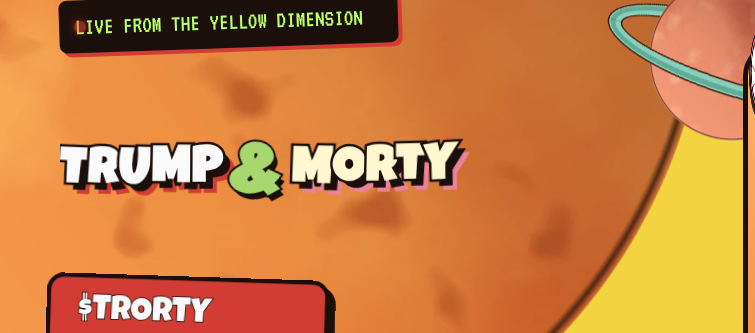
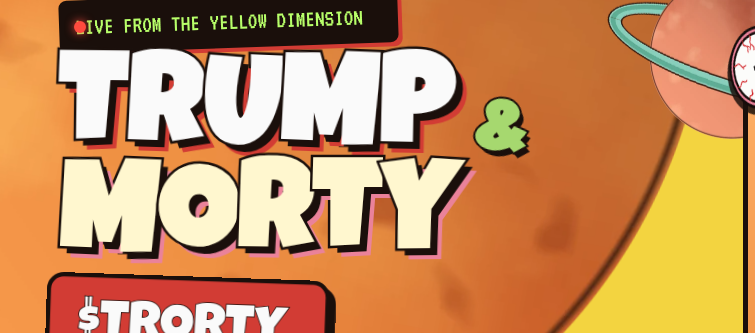
A captured part draws at the size and leading it was measured at; a hand-built one is still held to the Font control's range
applyFont takes { captured } (the node has from.selector, as applyCaptured
reads it): a captured size is held only to what a page could mean
(0.1..20 × base, leading 0.5..3), a hand-built one to 0.6..2 and 1..2 as
before (sink fidelity #7). trumpmorty.fun's headline: 51.2px -> 123.84px
at 0.86, in its measured 635x213.

At that size a folded title broke inside a word (its letters are
inline-blocks) and its tops were clipped by the box: a word's letters are
now held together and a box of letter runs does not clip, as the page's h1
did not. tests/captured-size.mjs: 13/13 (red on the rebased d72a4b0 for
the size and leading; the wrap check was added with its fix).

Claude-Session: https://claude.ai/code/session_015EXira6mC9FLR8gzJND3UV

diff --git a/src/features/studio/blocks.tsx b/src/features/studio/blocks.tsx
@@ -17,7 +17,7 @@ import { frameDoc, hasBody } from "./snippet";
 import { paintRoles, roleVars } from "./bodyPaint";
 import type { StudioNode } from "./store";
 import { usePicture, type Picture } from "./pictures";
-import { isSpans, plain, spansOf } from "./parts/spans";
+import { hasLetters, isSpans, plain, spansOf } from "./parts/spans";
 
 export { items, themeFrom, type Theme } from "./parts/theme";
 
@@ -104,7 +104,7 @@ export function Block({ node, t: siteTheme, mode = "board", size, onNavigate, em
   // nothing at all — the edge is the box wrapper's below — it only carries
   // the fact, so a part that draws its own edge can stand aside for his.
   // See `NodeSaid` in `parts/theme.ts`.
-  const painted = applyCaptured(applyEdge(applyPad(applyText(applyFont(node.colour && palette ? overrideTheme(siteTheme, node.colour, palette) : siteTheme, node.font), wordsSet(node)), node.pad), node.edge), { from: node.from, h: size?.h ?? node.h });
+  const painted = applyCaptured(applyEdge(applyPad(applyText(applyFont(node.colour && palette ? overrideTheme(siteTheme, node.colour, palette) : siteTheme, node.font, { captured: !!node.from?.selector?.trim() }), wordsSet(node)), node.pad), node.edge), { from: node.from, h: size?.h ?? node.h });
   // …and wear one texture layer of its own, or none, whatever the site does.
   const worn = node.texture && node.texture !== "none" ? layers?.find((l) => l.id === node.texture) : undefined;
   const dressed = React.useMemo(() => {
@@ -262,7 +262,7 @@ export function Block({ node, t: siteTheme, mode = "board", size, onNavigate, em
       // inside a parent whose own height is its content is a cycle, and the
       // page never settles — `plain-box` could not even take a screenshot.
       // See `parts/primitives.tsx`.
-      <div data-part-box="" className={hasMotion(node) ? motionClass(node.id) ?? undefined : undefined} style={{ width: "100%", height: "auto", flex: "1 0 auto", boxSizing: "border-box", overflow: "hidden", ...(ground ? { background: ground } : null), ...boxStyle(node, t, palette) }}>
+      <div data-part-box="" className={hasMotion(node) ? motionClass(node.id) ?? undefined : undefined} style={{ width: "100%", height: "auto", flex: "1 0 auto", boxSizing: "border-box", overflow: hasLetters(node.content) ? "visible" : "hidden", ...(ground ? { background: ground } : null), ...boxStyle(node, t, palette) }}>
         {drawn}
       </div>
     ) : drawn}

diff --git a/src/features/studio/parts/theme.ts b/src/features/studio/parts/theme.ts
@@ -136,8 +136,18 @@ export interface NodeFont {
   leading?: number;
 }
 
-export function applyFont(t: Theme, font: NodeFont | null | undefined): Theme {
+/**
+ * The size and leading a node names are held to the Font control's range
+ * (0.6..2 × the base, 1..2) when a person set them here. A CAPTURED part's
+ * were read off its page (`captured`: it has `from.selector`, as
+ * `applyCaptured` reads it), so they are drawn as measured: trumpmorty.fun's
+ * headline is 4.84 × the base at a leading of 0.86, and held to the range it
+ * drew at 51px in a box measured for 124 (sink fidelity #7). Only a value no
+ * page could mean is refused (tests/captured-size.mjs).
+ */
+export function applyFont(t: Theme, font: NodeFont | null | undefined, opts: { captured?: boolean } = {}): Theme {
   if (!font) return t;
+  const [sizeMin, sizeMax, leadMin, leadMax] = opts.captured ? [0.1, 20, 0.5, 3] : [0.6, 2, 1, 2];
   const next: Theme = { ...t };
   const stack = font.family ? FAMILY[font.family] : undefined;
   const face = typeof font.face === "string" ? font.face.trim().replace(/['"]/g, "") : "";
@@ -145,10 +155,10 @@ export function applyFont(t: Theme, font: NodeFont | null | undefined): Theme {
     next.headingFamily = [face ? `'${face}'` : null, stack ?? t.headingFamily].filter(Boolean).join(", ");
     next.bodyFamily = [face ? `'${face}'` : null, stack ?? t.bodyFamily].filter(Boolean).join(", ");
   }
-  if (typeof font.size === "number" && Number.isFinite(font.size)) next.fontPx = Math.round(t.fontPx * Math.max(0.6, Math.min(2, font.size)) * 10) / 10;
+  if (typeof font.size === "number" && Number.isFinite(font.size)) next.fontPx = Math.round(t.fontPx * Math.max(sizeMin, Math.min(sizeMax, font.size)) * 10) / 10;
   if (typeof font.weight === "number" && Number.isFinite(font.weight)) next.fontWeight = Math.round(Math.max(300, Math.min(800, font.weight)) / 100) * 100;
   if (typeof font.spacing === "number" && Number.isFinite(font.spacing)) next.letterSpacing = `${Math.max(-0.05, Math.min(0.3, font.spacing)).toFixed(3)}em`;
-  if (typeof font.leading === "number" && Number.isFinite(font.leading)) next.lineHeight = Math.max(1, Math.min(2, font.leading));
+  if (typeof font.leading === "number" && Number.isFinite(font.leading)) next.lineHeight = Math.max(leadMin, Math.min(leadMax, font.leading));
   return next;
 }
 

diff --git a/src/features/studio/parts/Runs.tsx b/src/features/studio/parts/Runs.tsx
@@ -23,7 +23,7 @@
  */
 import * as React from "react";
 import type { Theme } from "./theme";
-import type { Span } from "./spans";
+import { hasLetters, type Span } from "./spans";
 import { animationsValue } from "./capturedMotion";
 import type { NodeLink, PartMode } from "./types";
 
@@ -90,9 +90,25 @@ function look(s: Span, t: Theme, mode?: PartMode): React.CSSProperties | undefin
 }
 
 export function Runs({ spans, t, mode, onNavigate }: RunsProps) {
-  return (
-    <>
-      {spans.map((s, i) => {
+  const drawn = spans.map((s, i) => one(s, i, t, mode, onNavigate));
+  /*
+   * A title's letters are inline-blocks, and a line may break between any
+   * two inline-blocks: "MORTY" broke after its M. So each word's letters are
+   * held together, and the line breaks only at the spaces between words, as
+   * the page's did.
+   */
+  if (!hasLetters(spans as Span[])) return <>{drawn}</>;
+  const out: React.ReactNode[] = [];
+  let word: React.ReactNode[] = [];
+  const close = () => { if (word.length) out.push(<span key={`w${out.length}`} style={{ whiteSpace: "nowrap" }}>{word}</span>); word = []; };
+  spans.forEach((s, i) => { if (/^\s+$/.test(s.text)) { close(); out.push(drawn[i]); } else word.push(drawn[i]); });
+  close();
+  return <>{out}</>;
+}
+
+/** One run, as the part draws it. */
+function one(s: Span, i: number, t: Theme, mode: PartMode | undefined, onNavigate: RunsProps["onNavigate"]): React.ReactNode {
+      {
         const style = look(s, t, mode);
         /* A letter that moves wears the class reduced motion stills (capturedMotion.ts). */
         const moving = !!style?.animation;
@@ -128,7 +144,5 @@ export function Runs({ spans, t, mode, onNavigate }: RunsProps) {
          */
         if (to) return <span key={i} data-run-link={to.kind} data-run-to={to.target} style={style}>{s.text}</span>;
         return style ? <span key={i} className={moving ? "mo-l" : undefined} style={style}>{s.text}</span> : <React.Fragment key={i}>{s.text}</React.Fragment>;
-      })}
-    </>
-  );
+      }
 }

diff --git a/src/features/studio/parts/Hero.tsx b/src/features/studio/parts/Hero.tsx
@@ -8,6 +8,7 @@ import { items, type Theme } from "./theme";
 import { opt, type PartProps } from "./types";
 import { splitTurn } from "./turn";
 import { Runs } from "./Runs";
+import { hasLetters } from "./spans";
 
 export function Hero({ id, content, theme: t, mode, link, onNavigate, emit, w, picture }: PartProps) {
   const typing = id === "hero-typewriter";
@@ -91,7 +92,8 @@ export function ValueProp({ id, content, spans, options, h, theme: t, mode, onNa
     /* Captured, the box is his heading's own and it had no padding and its
        own leading (`applyCaptured`): padded, a heading as wide as its words
        wrapped, and the page under it moved (tests/captured-words.mjs). */
-    <Fill t={t} data-part={id} style={{ display: "flex", alignItems: "center", justifyContent: t.textAlign === "center" ? "center" : "flex-start", padding: t.tight || t.captured ? 0 : t.fontPx * 0.5 }}>
+    /* A captured title's letters rise above a tight line (0.86) and wobble past it, as they did on the page: not clipped. */
+    <Fill t={t} data-part={id} overflow={hasLetters(spans) ? "visible" : "hidden"} style={{ display: "flex", alignItems: "center", justifyContent: t.textAlign === "center" ? "center" : "flex-start", padding: t.tight || t.captured ? 0 : t.fontPx * 0.5 }}>
       <p dir="auto" style={{ margin: 0, fontFamily: t.headingFamily, fontWeight: 700, fontSize: t.fontPx * 1.6, lineHeight: lh, maxWidth: t.measurePx, whiteSpace: oneLine ? "nowrap" : undefined, textAlign: t.textAlign === "justify" ? "left" : t.textAlign }}>
         {/* Runs of their own (a captured title's letters, a sentence in two inks) are drawn as they are; the turn is for a plain line. */}
         {spans?.length && turn === "none" ? <Runs spans={spans} t={t} mode={mode} onNavigate={onNavigate} /> : (

diff --git a/src/features/studio/parts/spans.ts b/src/features/studio/parts/spans.ts
@@ -75,6 +75,11 @@ export interface Span {
   motion?: { animation?: MotionAnimation[] } | null;
 }
 
+/** Are these a captured title's letters, each moving on its own (a transform or an animation per run)? */
+export function hasLetters(w: Words | null | undefined): boolean {
+  return Array.isArray(w) && w.some((s) => !!s && ((!!s.transform && s.transform !== "none") || !!s.motion?.animation?.length));
+}
+
 /** What a node's words are. A plain string is one unstyled span. */
 export type Words = string | Span[];
 

diff --git a/docs/CAPTURED-MOTION.md b/docs/CAPTURED-MOTION.md
@@ -33,8 +33,13 @@ shadow, each wobbling on its delay), `-hover-rest/-hover-on` (BUY ON
 PUMP.FUN lifts and turns with a 10px shadow, words and icon with it; before,
 nothing), `-embed` (a black box → the DEX Screener frame).
 
-Not done here: the headline draws at ~51px, not the site's 124, because
-`applyFont` caps a node's size at 2× the base (the heading clamp, sink
-fidelity #7); a `transform-origin` is not captured (the site's letters turn
+A captured part draws at the size and leading it was measured at
+(`applyFont(…, { captured })`, sink fidelity #7): the headline is 123.84px
+at 0.86, in the 635×213 box the capture measured, where it drew at 51.2px
+held to the Font control's 0.6–2× range; a part built here is still held
+to it (`tests/captured-size.mjs`). A title's letters wrap between words,
+never inside one, and rise past their tight line unclipped, as on the page.
+
+Not done here: a `transform-origin` is not captured (the site's letters turn
 about 50% 90%); pseudo-elements and script-driven motion (the marquee,
 parallax) are not in the capture.
